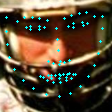
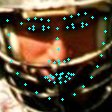
updated 2022.07.26

diff --git a/source/object_detection/centernet/inference.py b/source/object_detection/centernet/inference.py
@@ -5,6 +5,7 @@ import tensorflow as tf
 from glob import glob
 from model import centernet
 
+
 os.environ['TF_CPP_MIN_LOG_LEVEL'] = '3'
 gpus = tf.config.experimental.list_physical_devices('GPU')
 if len(gpus) > 1:
@@ -37,17 +38,28 @@ def preprocess_image(image):
 
 def draw_result(idx, image, detections):
     scores = detections[:, 4]
-    indices = np.where(scores > 0.4)[0]
+    indices = np.where(scores > 0.8)[0]
     detections[:, [0, 2]] = np.clip(detections[:, [0, 2]], 0, image.shape[1])
     detections[:, [1, 3]] = np.clip(detections[:, [1, 3]], 0, image.shape[0])
 
+    target_size = input_shape[0]
+    x_, y_ = input_shape[0] // 4, input_shape[1] // 4
+
+    x_scale = target_size / x_
+    y_scale = target_size / y_
     result_image = image.copy()
     if len(indices):
         for result in detections[indices]:
             xmin, ymin, xmax, ymax, score, label = int(result[0]), int(result[1]), int(result[2]), int(result[3]), result[4], int(result[5])
+
+            xmin = int(np.round(xmin * x_scale))
+            ymin = int(np.round(ymin * y_scale))
+            xmax = int(np.round(xmax * x_scale))
+            ymax = int(np.round(ymax * y_scale))
+
             cv2.rectangle(result_image, (xmin, ymin), (xmax, ymax), (0, 0, 255))
 
-    return cv2.resize(result_image, (512, 512))
+    return result_image
 
 
 def inference_images(image_dir):
@@ -55,13 +67,15 @@ def inference_images(image_dir):
 
     for index, image_file in enumerate(image_files):
         image = cv2.imread(image_file)
-        image = cv2.resize(image, (input_shape[0], input_shape[1]))
-        input_tensor = preprocess_image(image)
+        resized_image = cv2.resize(image, (input_shape[0], input_shape[1]))
+        input_tensor = preprocess_image(resized_image)
         input_tensor = np.expand_dims(input_tensor, axis=0)
 
         detection_result = pred_model.predict(input_tensor, verbose=0)[0]
-        result_image = cv2.resize(image, (input_shape[0] // 4, input_shape[1] // 4))
-        draw_result(index, result_image, detection_result)
+        result_image = draw_result(index, resized_image, detection_result)
+
+        cv2.imshow("detection_result", result_image)
+        cv2.waitKey(0)
 
 
 def inference_frames(vid_index):
@@ -81,15 +95,14 @@ def inference_frames(vid_index):
         input_tensor = np.expand_dims(input_tensor, axis=0)
 
         detection_result = pred_model.predict(input_tensor, verbose=0)[0]
-        result_frame = cv2.resize(frame, (input_shape[0] // 4, input_shape[1] // 4))
-        result_image = draw_result(index, result_frame, detection_result)
+        result_image = draw_result(index, resized_frame, detection_result)
         index += 1
 
         cv2.imshow("detection_result", result_image)
 
 
 if __name__ == "__main__":
-    img_path = "/data/test_image"
+    img_path = "/data/Datasets/300VW_Dataset_2015_12_14/original/001/imgs"
     ckpt_path = "/data/Models/CenterNet/custom_unfreeze.h5"
     
     input_shape = (512, 512, 3)
@@ -98,8 +111,9 @@ if __name__ == "__main__":
     max_detections = 30
     freeze_backbone = False
 
-    model, pred_model = centernet(input_shape=input_shape, num_classes=len(classes), backbone=backbone, max_detections=max_detections, mode="train", freeze_bn=freeze_backbone)
-    model.load_weights(ckpt_path, by_name=True, skip_mismatch=True)
+    pred_model = centernet(input_shape=input_shape, num_classes=len(classes), backbone=backbone, max_detections=max_detections, mode="predict", freeze_bn=freeze_backbone)
+    pred_model.load_weights(ckpt_path, by_name=True, skip_mismatch=True)
+    pred_model.summary()
 
     inference_frames(-1)
     # inference_images(img_path)

diff --git a/source/face_landmark/deprecated/68pts/300VW_SetPreparation68.py b/source/face_landmark/deprecated/68pts/300VW_SetPreparation68.py
@@ -240,8 +240,8 @@ if __name__ == '__main__':
     imageDirs = f'{root_dir}/original'
     Mirror_file = './annotations/Mirror68.txt'
 
-    # landmarkDirs = ['annotations/list_68pt_rect_attr_train_test/list_68pt_rect_attr_train.txt',
-    #                 'annotations/list_68pt_rect_attr_train_test/list_68pt_rect_attr_test.txt']
+    if not os.path.isdir(f"{root_dir}/annotations"):
+        os.makedirs(f"{root_dir}/annotations")
     landmarkDirs = [f'{root_dir}/annotations/list_68pt_rect_attr_train_test/list_68pt_rect_attr_train.txt']
 
     # outDirs = ['train_data', 'test_data']

diff --git a/source/object_detection/centernet/model.py b/source/object_detection/centernet/model.py
@@ -176,7 +176,7 @@ def centernet(input_shape, num_classes, backbone='resnet50', max_detections=100,
 
         return model, prediction_model
 
-    elif mode == "predcit":
+    elif mode == "predict":
         detections = Lambda(lambda x: decode(*x, num_classes=num_classes, max_detections=max_detections))([y1, y2, y3])
         prediction_model = Model(inputs=image_input, outputs=detections)        
 
